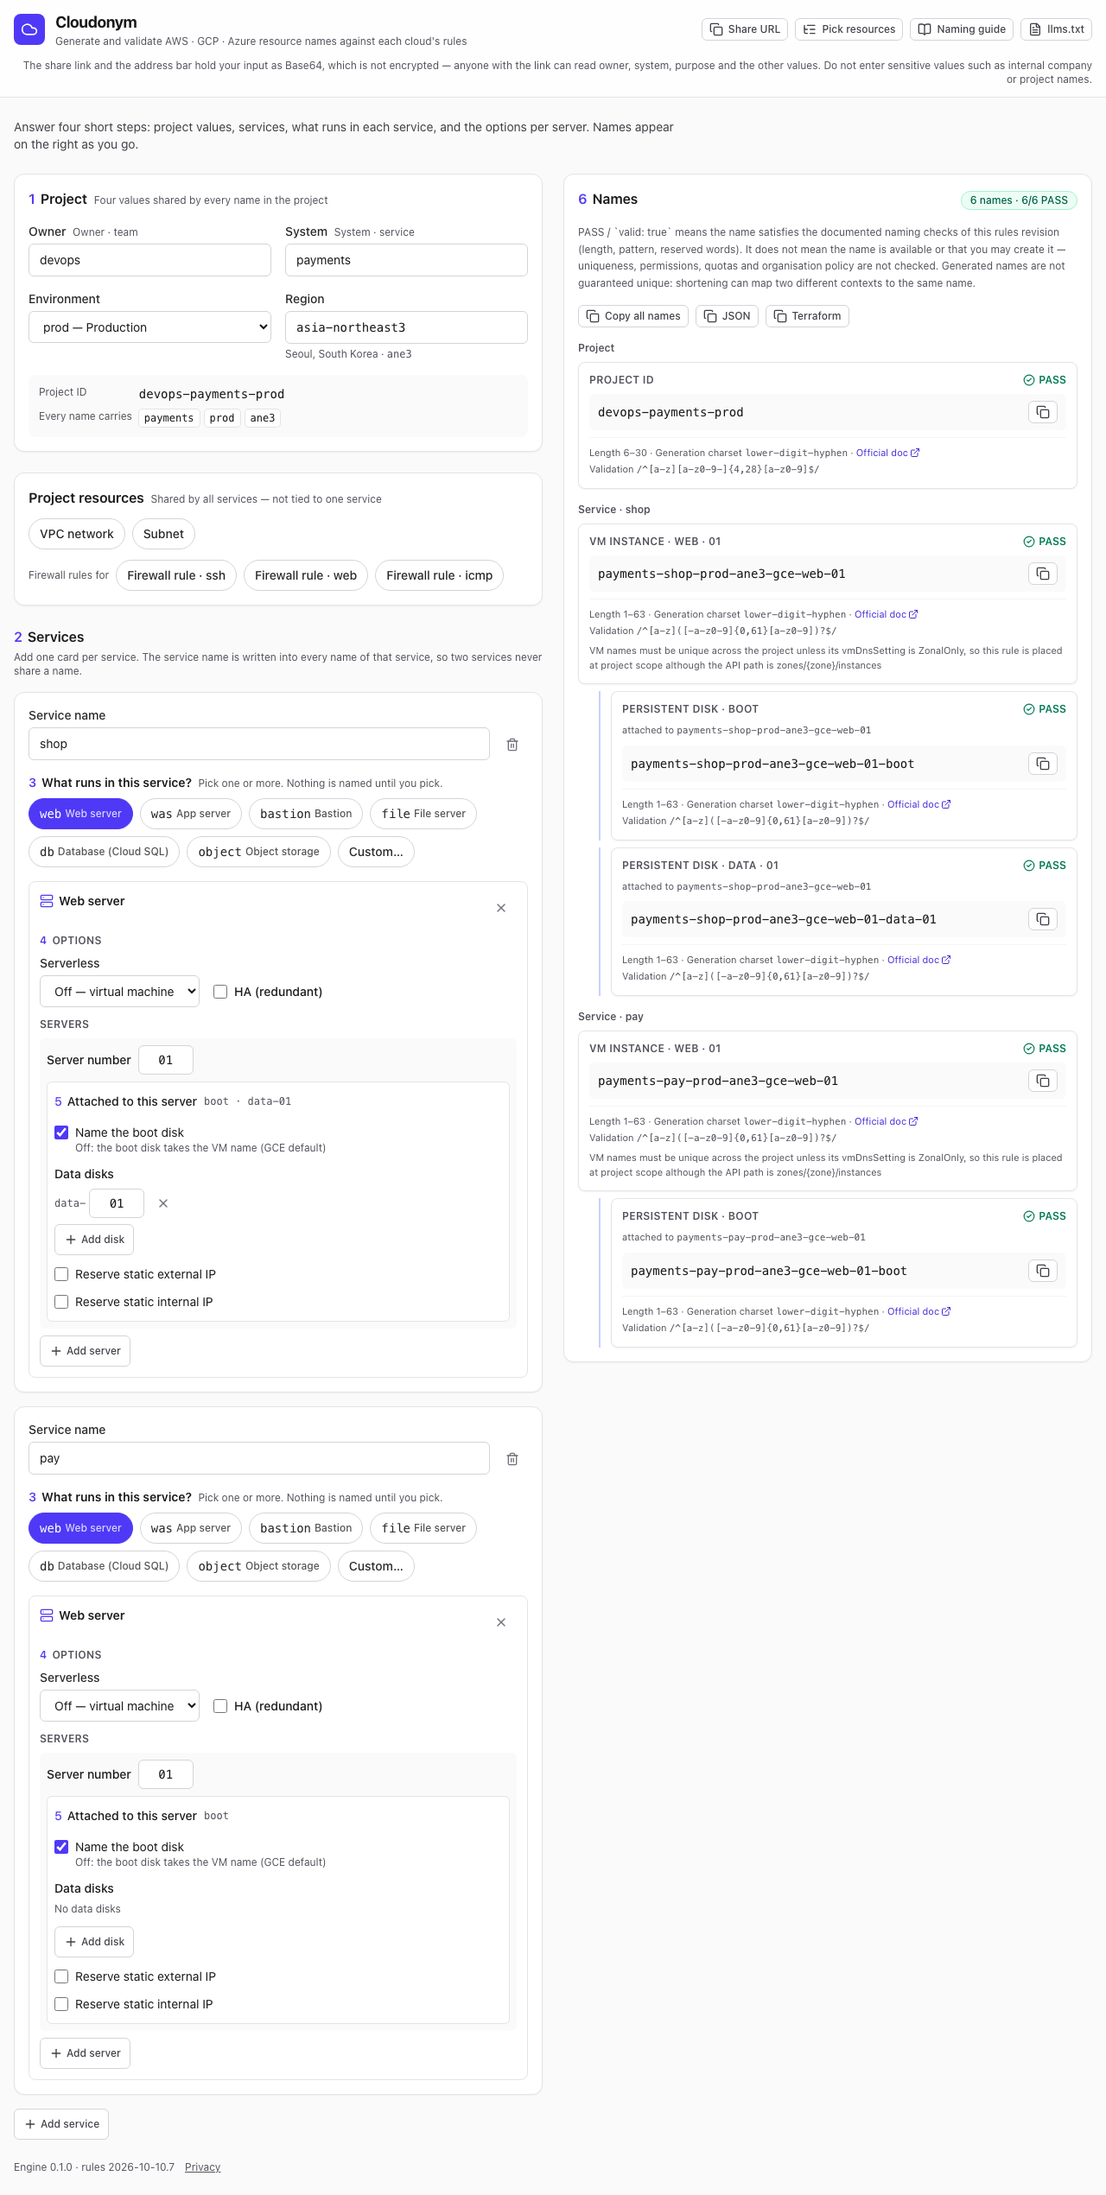
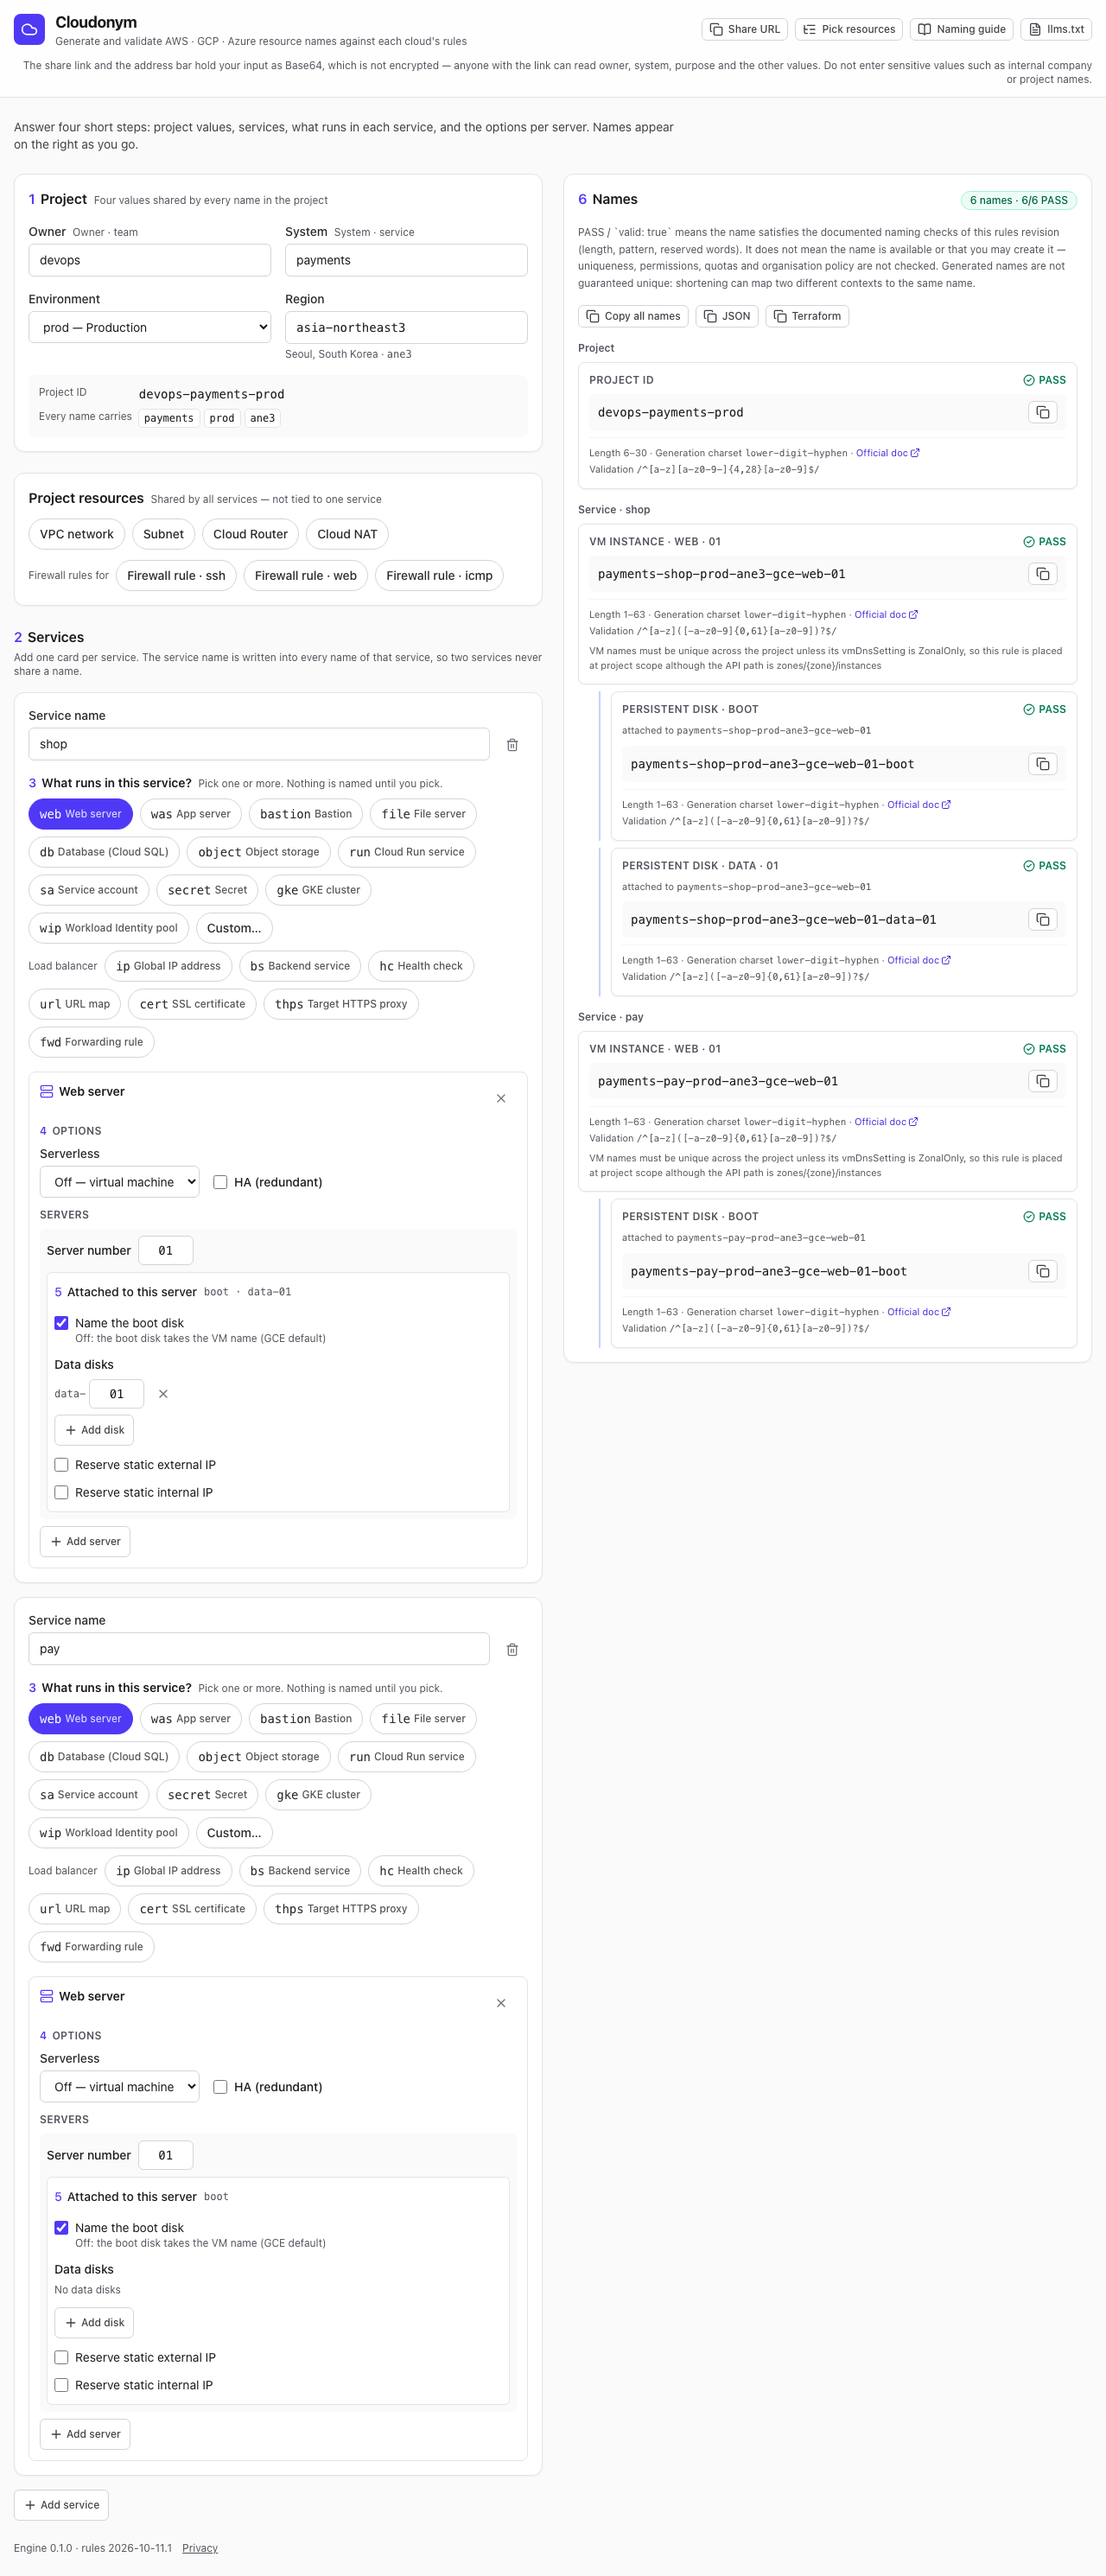
test(ui): new wizard chips one by one and a retaken wizard screenshot
Scenario 38 turns on each new chip (Cloud Run, service account, secret,
GKE, Workload Identity pool, the seven load balancer parts, Cloud Router
and Cloud NAT) and checks the screen names against POST /v1/wizard, the
per-rule kind label, the service account role input and no horizontal
scroll at 360px. The naming guide row counts follow the data
(abbreviations 112, preset groups 11). 06-wizard.png shows the new chips.

Claude-Session: https://claude.ai/code/session_014YZvVFBE4vdDVbQmXmRVVx

diff --git a/tests/ui/screen.py b/tests/ui/screen.py
@@ -1,4 +1,4 @@
-"""화면 시험 — Playwright(Python) 로 네 단계 트리 화면(D42)의 시나리오 ⑴~⒆ · ⒇~㉙ 와 마법사(D59 · D67 · D68)의 ㉚~㊲ 를 재고 스크린샷을 남긴다.
+"""화면 시험 — Playwright(Python) 로 네 단계 트리 화면(D42)의 시나리오 ⑴~⒆ · ⒇~㉙ 와 마법사(D59 · D67 · D68 · D73)의 ㉚~㊳ 을 재고 스크린샷을 남긴다.
 켜진 CSP 는 GCP 하나다(D45) — AWS · Azure 버튼은 「Coming soon」 으로 꺼져 있고 GCP 가 자동으로 골라진다. 시나리오는 GCP 위에서 돈다.
 
 화면 문구는 영어 사전(src/messages/en.ts)이 정본이다 — 아래 기대 문자열은 그 사전의 문장이다.
@@ -29,7 +29,7 @@ from playwright.sync_api import Error, expect, sync_playwright
 BASE = sys.argv[1].rstrip('/')
 OUT = Path(sys.argv[2])
 # 옛 hash 링크를 여는 경로 (D68) — 기본은 뿌리 `/`(이미 나간 링크 그대로), 셋째 인자로 `/pick` 을 주면 같은 시나리오를 트리 경로에서 돈다.
-# hash 없는 첫 방문(⑴) · 깨진 hash(⑶)는 늘 `/pick` 이다 — 뿌리의 hash 없는 화면은 마법사다. 마법사 시나리오 ㉚~㊲ 는 뿌리 패스에서만 돈다
+# hash 없는 첫 방문(⑴) · 깨진 hash(⑶)는 늘 `/pick` 이다 — 뿌리의 hash 없는 화면은 마법사다. 마법사 시나리오 ㉚~㊳ 은 뿌리 패스에서만 돈다
 HB = sys.argv[3] if len(sys.argv) > 3 else '/'
 assert HB in ('/', '/pick'), HB
 TREE = '/pick'
@@ -202,7 +202,7 @@ def no_hangul(page):
     assert not any('가' <= ch <= '힣' or 'ㄱ' <= ch <= 'ㆎ' for ch in body_text), body_text
 
 
-# ── 마법사 (D59 · D64 · D67 · D68) — ㉚~㊲ ──
+# ── 마법사 (D59 · D64 · D67 · D68 · D73) — ㉚~㊳ ──
 # 화면 값은 중립 예시다(공개 저장소). 기대 이름은 화면 밖(POST /v1/wizard — 같은 엔진)에서 받는다
 W_PROJECT = {'owner': 'devops', 'system': 'payments', 'env': 'prod', 'region': 'asia-northeast3'}
 
@@ -445,7 +445,45 @@ def wizard_scenarios(browser, rules_version, errors):
     expect(p36.locator('[data-wizard-notice]')).to_have_text(['1 invalid item(s) in this link were left out.'])
     expect(slot(p36, 0, 0).locator('[data-attached-summary]')).to_have_text('boot')
     ctx36.close()
-    print('OK — 마법사 시나리오 ㉚~㊲ 통과')
+
+    # ── ㊳ D73 의 새 칩 — 하나씩 켜면 이름이 하나씩 늘고 화면 이름 = POST /v1/wizard · 로드 밸런서는 하위 줄 · 종류 라벨 · 역할 입력 · 360px ──
+    ctx38 = browser.new_context(viewport={'width': 1280, 'height': 900})
+    p38 = ctx38.new_page()
+    p38.on('pageerror', lambda e: errors.append(str(e)))
+    goto_ready(p38, BASE + '/')
+    fill_project(p38)
+    svc(p38, 0).locator('[data-service-name]').fill('shop')
+    lb = svc(p38, 0).locator('[data-lb-parts]')
+    expect(lb.locator('[data-purpose-chip]')).to_have_count(7)
+    one = [{'id': '1', 'seq': '01'}]
+    picks, project_picks = [], []
+    for chip in ('run', 'sa', 'secret', 'gke', 'wip', 'ip', 'bs', 'hc', 'url', 'cert', 'thps', 'fwd'):
+        before38 = p38.locator('#names article[data-key]').count()
+        svc(p38, 0).locator(f'[data-purpose-chip="{chip}"]').click()
+        picks.append({'preset': chip} if chip == 'sa' else {'preset': chip, 'instances': one})
+        want = wizard_names(p38, {'project_picks': project_picks, 'services': [{'purpose': 'shop', 'picks': picks}]})
+        expect(p38.locator('#names article[data-key]')).to_have_count(before38 + (2 if before38 == 0 else 1))
+        assert screen_names(p38) == want, (chip, screen_names(p38), want)
+        assert all(v for _, _, v in want), want
+    for chip in ('router', 'nat'):
+        p38.locator(f'[data-project-chip="{chip}"]').click()
+        project_picks.append({'preset': chip, 'instances': one})
+        want = wizard_names(p38, {'project_picks': project_picks, 'services': [{'purpose': 'shop', 'picks': picks}]})
+        assert screen_names(p38) == want, (chip, screen_names(p38), want)
+    assert len(want) == 1 + 12 + 2, want
+    expect(svc(p38, 0).locator('[data-pick="gke"] label[for$="-kind"]')).to_have_text('Kind of GKE Cluster')
+    sa = svc(p38, 0).locator('[data-pick="sa"]')
+    expect(sa.locator('[data-role]')).to_have_attribute('placeholder', 'sync')
+    expect(sa.locator('li[data-slot]')).to_have_count(0)
+    expect(p38.locator('#names article[data-key="service/shop/service_account/-/sync"] [data-name]')).to_have_text('payments-shop-prod-sa-sync')
+    sa.locator('[data-role]').fill('deploy')
+    expect(p38.locator('#names article[data-key="service/shop/service_account/-/deploy"] [data-name]')).to_have_text('payments-shop-prod-sa-deploy')
+    no_hangul(p38)
+    p38.set_viewport_size({'width': 360, 'height': 800})
+    p38.wait_for_timeout(200)
+    assert p38.evaluate('document.documentElement.scrollWidth <= window.innerWidth'), '새 칩을 켠 마법사가 360px 에서 가로 스크롤이 생긴다'
+    ctx38.close()
+    print('OK — 마법사 시나리오 ㉚~㊳ 통과')
 
 
 with sync_playwright() as p:
@@ -1232,7 +1270,7 @@ with sync_playwright() as p:
     no_hangul(page27)
     ctx27.close()
 
-    # ── ㉘ /docs/naming — 200 · 절 열둘 · 표 행 수(약어 101(Cloud Run 포함) · 리전 43 · 종류 토큰 19 · 환경 4 · 토큰 10 · 딸린 것 4 · 프리셋 묶음 5) · PASS 문장 · 휴대폰 폭 · 스크린샷 (D57) ──
+    # ── ㉘ /docs/naming — 200 · 절 열둘 · 표 행 수(약어 112(Cloud Run · D72 포함) · 리전 43 · 종류 토큰 19 · 환경 4 · 토큰 10 · 딸린 것 4 · 프리셋 묶음 11) · PASS 문장 · 휴대폰 폭 · 스크린샷 (D57) ──
     ctx28 = browser.new_context(viewport={'width': 360, 'height': 800})
     page28 = ctx28.new_page()
     page28.on('pageerror', lambda e: errors.append(str(e)))
@@ -1240,7 +1278,7 @@ with sync_playwright() as p:
     assert resp28 is not None and resp28.status == 200, resp28 and resp28.status
     expect(page28.locator('h1')).to_have_text('Naming guide')
     expect(page28.locator('[data-naming-doc] > section')).to_have_count(12)
-    for table_id, rows in {'abbreviations': 101, 'regions': 43, 'kinds': 19, 'env': 4, 'tokens': 10, 'attached': 4, 'presets': 5}.items():
+    for table_id, rows in {'abbreviations': 112, 'regions': 43, 'kinds': 19, 'env': 4, 'tokens': 10, 'attached': 4, 'presets': 11}.items():
         expect(page28.locator(f'[data-doc-table="{table_id}"] tbody tr')).to_have_count(rows)
     expect(page28.locator('[data-doc-table] caption')).to_have_count(page28.locator('[data-doc-table]').count())
     expect(page28.locator('[data-doc-list="shrink"] li')).to_have_count(3)
